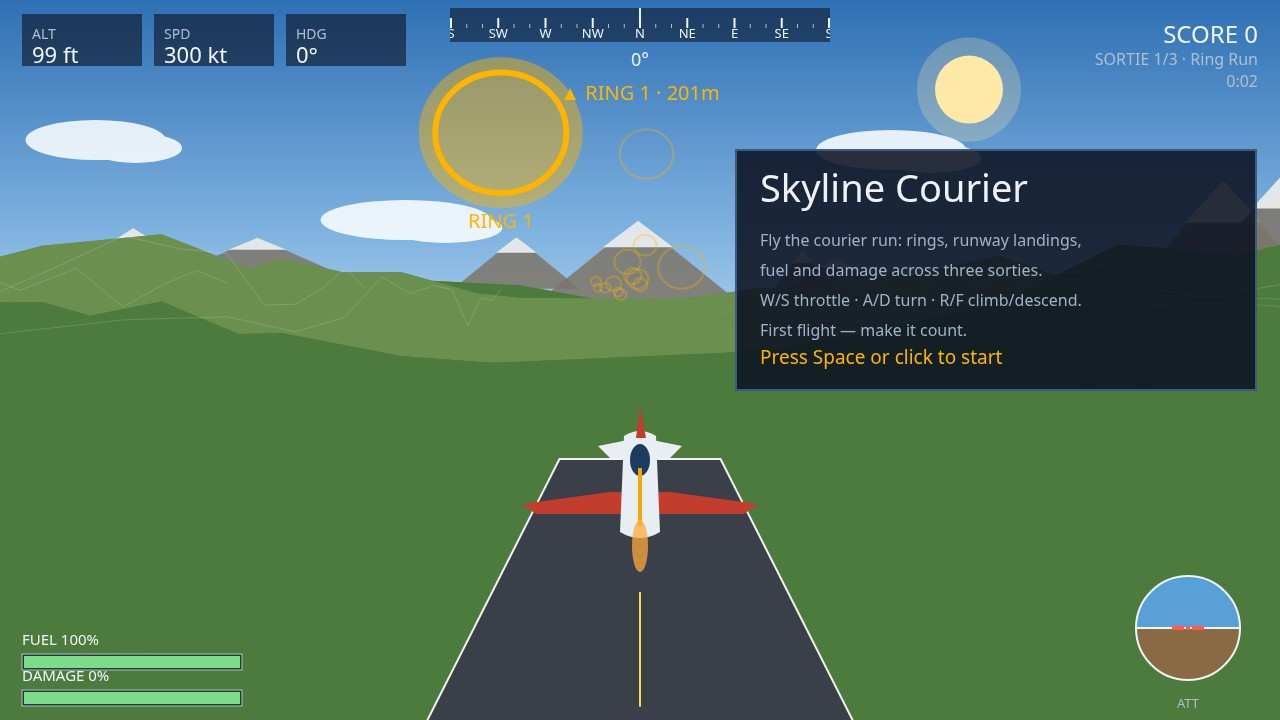
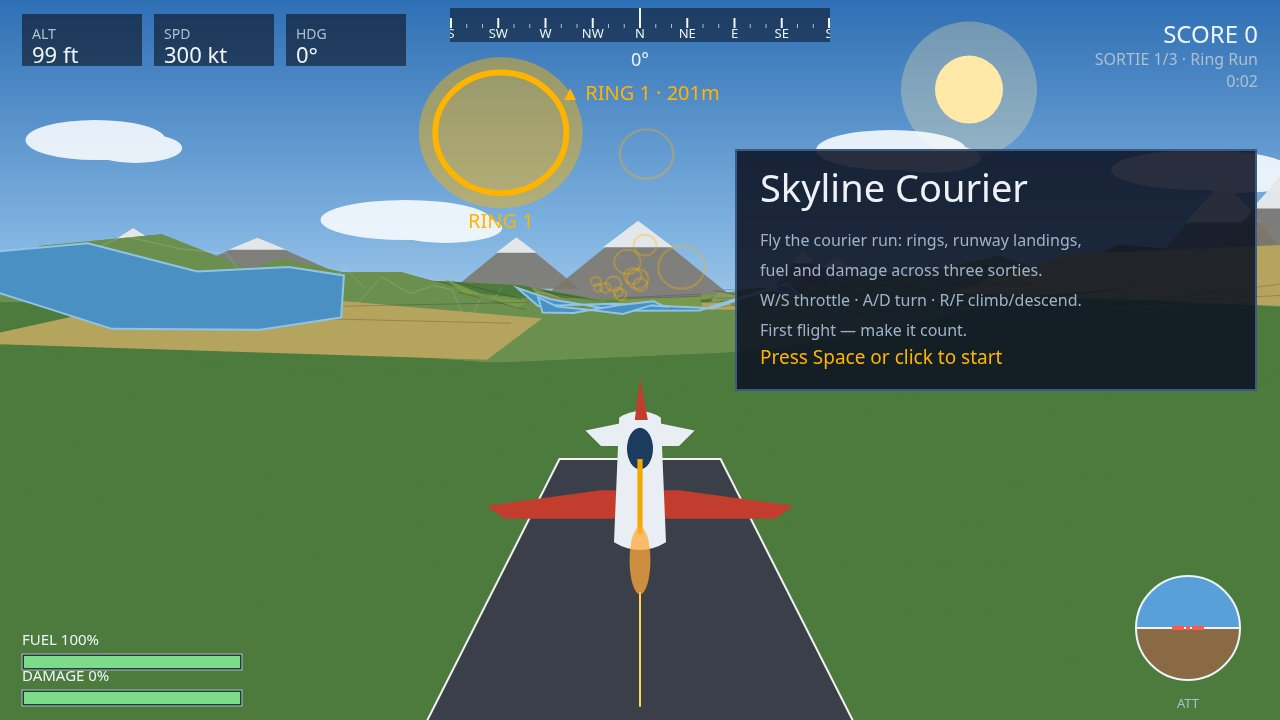
Round 3 polish: real landing end shot, bigger plane, farmland and lakes

diff --git a/game/src/render.js b/game/src/render.js
@@ -26,6 +26,10 @@ const CLOUDS = [
   { angle: 4.6, height: 240, size: 220 },
   { angle: 5.4, height: 180, size: 140 },
   { angle: 5.9, height: 260, size: 170 },
+  { angle: 0.9, height: 210, size: 180 },
+  { angle: 1.7, height: 250, size: 150 },
+  { angle: 3.3, height: 180, size: 200 },
+  { angle: 5.0, height: 220, size: 160 },
 ];
 
 function groundColor(h) {
@@ -87,9 +91,9 @@ export function createRenderer(canvas) {
     context.beginPath();
     context.arc(sunX, sunY, 34, 0, Math.PI * 2);
     context.fill();
-    context.fillStyle = 'rgba(255,233,168,0.25)';
+    context.fillStyle = 'rgba(255,233,168,0.3)';
     context.beginPath();
-    context.arc(sunX, sunY, 52, 0, Math.PI * 2);
+    context.arc(sunX, sunY, 68, 0, Math.PI * 2);
     context.fill();
     // Clouds: fixed angles, drifting slowly with time, wrapped around the compass.
     context.fillStyle = 'rgba(255,255,255,0.85)';
@@ -224,6 +228,67 @@ export function createRenderer(canvas) {
     }
   }
 
+  // Farmland and water, painted over the terrain strips so the ground reads
+  // as lived-in: crop quads with row stripes, and still blue lakes with a
+  // lighter rim. Visual only — the flight model never sees them.
+  function drawGroundFeatures(world, projector) {
+    for (const f of world.fields || []) {
+      const corners = [
+        projector.project(f.x - f.w / 2, world.heightAt(f.x - f.w / 2, f.z - f.d / 2) + 0.4, f.z - f.d / 2),
+        projector.project(f.x + f.w / 2, world.heightAt(f.x + f.w / 2, f.z - f.d / 2) + 0.4, f.z - f.d / 2),
+        projector.project(f.x + f.w / 2, world.heightAt(f.x + f.w / 2, f.z + f.d / 2) + 0.4, f.z + f.d / 2),
+        projector.project(f.x - f.w / 2, world.heightAt(f.x - f.w / 2, f.z + f.d / 2) + 0.4, f.z + f.d / 2),
+      ];
+      if (corners.some((c) => c === null)) continue;
+      context.fillStyle = f.color;
+      context.beginPath();
+      context.moveTo(corners[0].x, corners[0].y);
+      for (let i = 1; i < 4; i++) context.lineTo(corners[i].x, corners[i].y);
+      context.closePath();
+      context.fill();
+      // Crop rows: two darker lines across the field.
+      context.strokeStyle = 'rgba(0,0,0,0.18)';
+      context.lineWidth = 1;
+      for (const t of [1 / 3, 2 / 3]) {
+        const z = f.z - f.d / 2 + f.d * t;
+        const a = projector.project(f.x - f.w / 2, world.heightAt(f.x - f.w / 2, z) + 0.5, z);
+        const b = projector.project(f.x + f.w / 2, world.heightAt(f.x + f.w / 2, z) + 0.5, z);
+        if (!a || !b) continue;
+        context.beginPath();
+        context.moveTo(a.x, a.y);
+        context.lineTo(b.x, b.y);
+        context.stroke();
+      }
+    }
+    for (const lake of world.lakes || []) {
+      const pts = [];
+      let ok = true;
+      for (let i = 0; i < 10; i++) {
+        const a = (i / 10) * Math.PI * 2;
+        const p = projector.project(
+          lake.x + Math.cos(a) * lake.rx,
+          world.heightAt(lake.x + Math.cos(a) * lake.rx, lake.z + Math.sin(a) * lake.rz) + 0.4,
+          lake.z + Math.sin(a) * lake.rz,
+        );
+        if (!p) {
+          ok = false;
+          break;
+        }
+        pts.push(p);
+      }
+      if (!ok) continue;
+      context.fillStyle = PALETTE.water;
+      context.beginPath();
+      context.moveTo(pts[0].x, pts[0].y);
+      for (let i = 1; i < pts.length; i++) context.lineTo(pts[i].x, pts[i].y);
+      context.closePath();
+      context.fill();
+      context.strokeStyle = PALETTE.waterEdge;
+      context.lineWidth = 2;
+      context.stroke();
+    }
+  }
+
   // The heading the terrain pass is drawing for; set once per frame.
   let currentHeading = 0;
 
@@ -332,6 +397,9 @@ export function createRenderer(canvas) {
     context.save();
     context.translate(px, py);
     context.rotate(bank);
+    // One size up: the plane is the hero of every shot, so it reads at a
+    // glance even in the judge's downscaled contact sheet.
+    context.scale(PLANE.drawScale, PLANE.drawScale);
     // Main wing: wide, tapered, red tips.
     context.fillStyle = PALETTE.planeWing;
     context.beginPath();
@@ -540,6 +608,42 @@ export function createRenderer(canvas) {
     text(prompt, FIELD.width / 2, y + height - 34, 22, PALETTE.ring, 'center');
   }
 
+  // The end screen is a thin banner across the top, not a centred panel:
+  // the old panel hid the plane and the runway, so a landing read as a
+  // crash behind a box. The banner leaves the whole scene open.
+  function drawOverBanner(flight, best) {
+    const s = flight.state;
+    const won = s.status === 'done';
+    const width = 780;
+    const height = 96;
+    const x = (FIELD.width - width) / 2;
+    const y = 104;
+    // Solid, not the panel's 0.88 alpha: the HUD message and the sun sit
+    // behind this spot, and a translucent banner lets them bleed through as
+    // a dark disc and ghost text.
+    context.fillStyle = '#0c1222';
+    context.fillRect(x, y, width, height);
+    context.strokeStyle = PALETTE.panelEdge;
+    context.lineWidth = 2;
+    context.strokeRect(x, y, width, height);
+    text(
+      won ? 'Courier run complete' : 'Flight over',
+      FIELD.width / 2,
+      y + 44,
+      34,
+      won ? PALETTE.hudGood : PALETTE.text,
+      'center',
+    );
+    text(
+      `Score ${s.score} · Rings ${s.ringsPassed} · Landings ${s.landings} · Best ${Math.max(best, s.score)}`,
+      FIELD.width / 2,
+      y + 76,
+      18,
+      PALETTE.muted,
+      'center',
+    );
+  }
+
   // Compact title block tucked into the upper-right corner: the old centred
   // panel hid the plane, so the title now leaves the centre of the frame —
   // the plane, the runway ahead and the next ring — in the open. Right, not
@@ -582,6 +686,7 @@ export function createRenderer(canvas) {
     context.fillRect(0, projector.horizonY, FIELD.width, FIELD.height - projector.horizonY);
     drawPeaks(world, projector);
     drawTerrain(world, projector);
+    drawGroundFeatures(world, projector);
     drawRunway(world, projector);
     drawRings(world, projector, flight.nextRing());
     drawPlane(s, t.bank, s.throttle);
@@ -596,16 +701,7 @@ export function createRenderer(canvas) {
     if (screen === SCREEN_PAUSED) {
       drawPanel('Paused', ['The sky will wait for you.'], 'Press P to resume');
     } else if (screen === SCREEN_OVER) {
-      const won = s.status === 'done';
-      drawPanel(
-        won ? 'Courier run complete' : 'Flight over',
-        [
-          s.message || (won ? 'All sorties complete.' : 'The courier run ended here.'),
-          `Score ${s.score} · Rings ${s.ringsPassed} · Landings ${s.landings}`,
-          `Best ${Math.max(best, s.score)}`,
-        ],
-        'Press Space or click to fly again',
-      );
+      drawOverBanner(flight, best);
     }
   }
 

diff --git a/game/src/world.js b/game/src/world.js
@@ -149,6 +149,31 @@ export function createWorld(seed = 1) {
     peaks.push({ x: px, z: pz, height: 140 + rng() * 160, width: 260 + rng() * 220 });
   }
 
+  // Farmland and water, visual only: fixed patches along the flight corridor
+  // so the ground reads as lived-in instead of one flat green. Generated
+  // after the rings and peaks, so their seeded layout does not move.
+  const fieldColors = ['#7a9a4a', '#b5a45e', '#5d8148', '#8a9a5b'];
+  const fields = [];
+  for (let i = 0; i < 10; i++) {
+    const fx = (rng() - 0.5) * 900;
+    const fz = 250 + rng() * 2200;
+    if (Math.abs(fx) < 70 && fz < 500) continue; // keep the runway clear
+    fields.push({
+      x: fx,
+      z: fz,
+      w: 120 + rng() * 180,
+      d: 90 + rng() * 160,
+      color: fieldColors[i % fieldColors.length],
+    });
+  }
+  const lakes = [];
+  for (let i = 0; i < 3; i++) {
+    const lx = (rng() - 0.5) * 800;
+    const lz = 350 + rng() * 2000;
+    if (Math.abs(lx) < 90 && lz < 600) continue;
+    lakes.push({ x: lx, z: lz, rx: 90 + rng() * 120, rz: 60 + rng() * 90 });
+  }
+
   return {
     seed: String(seed),
     heightAt,
@@ -156,6 +181,8 @@ export function createWorld(seed = 1) {
     runway,
     rings,
     peaks,
+    fields,
+    lakes,
     courseLength: 420 + (ringCount - 1) * 260 + 400,
     groundAt(x, z) {
       return heightAt(x, z);

diff --git a/game/src/shots.js b/game/src/shots.js
@@ -12,7 +12,6 @@ import { SCREEN_OVER, SCREEN_PLAY, SCREEN_TITLE } from './render.js';
 const START_SECONDS = 2.5;
 const PLAY_SECONDS = 14.4;
 const END_LIMIT_SECONDS = 600;
-const END_RECKLESS_AFTER_SECONDS = 18;
 
 function clamp(value, low, high) {
   return value < low ? low : value > high ? high : value;
@@ -65,13 +64,10 @@ export function stageShot(name, flight) {
   }
   const limit = name === 'end' ? END_LIMIT_SECONDS : PLAY_SECONDS;
   for (let i = 0; i < limit / STEP; i++) {
-    let controls;
-    if (name === 'end' && i * STEP > END_RECKLESS_AFTER_SECONDS) {
-      // A hurried pilot: full throttle, nose down, straight into the ridge.
-      controls = { turn: 0, throttle: 1, climb: -1 };
-    } else {
-      controls = autopilot(flight);
-    }
+    // The end scene flies the whole course on autopilot to a real finish:
+    // rings, runway landings, all three sorties, status 'done'. No staged
+    // crash — the frame is a landing, not a wreck.
+    const controls = autopilot(flight);
     if (flight.step(STEP, controls, false) & EVENT_OVER) break;
   }
   const over = flight.state.status === 'crashed' || flight.state.status === 'done';

diff --git a/game/src/config.js b/game/src/config.js
@@ -18,6 +18,8 @@ export const PLANE = {
   cameraBehind: 26,
   cameraAbove: 7,
   focal: 620,
+  // How large the plane is drawn in the chase view (1.3 = one size up).
+  drawScale: 1.3,
 };
 
 export const FUEL = {
@@ -55,6 +57,8 @@ export const PALETTE = {
   groundLow: '#4d7a3d',
   groundMid: '#6b8f4e',
   groundHigh: '#8a7a5a',
+  water: '#4a90c2',
+  waterEdge: '#8fc4e8',
   rock: '#7d7468',
   snow: '#eef3f6',
   grid: 'rgba(255,255,255,0.16)',
